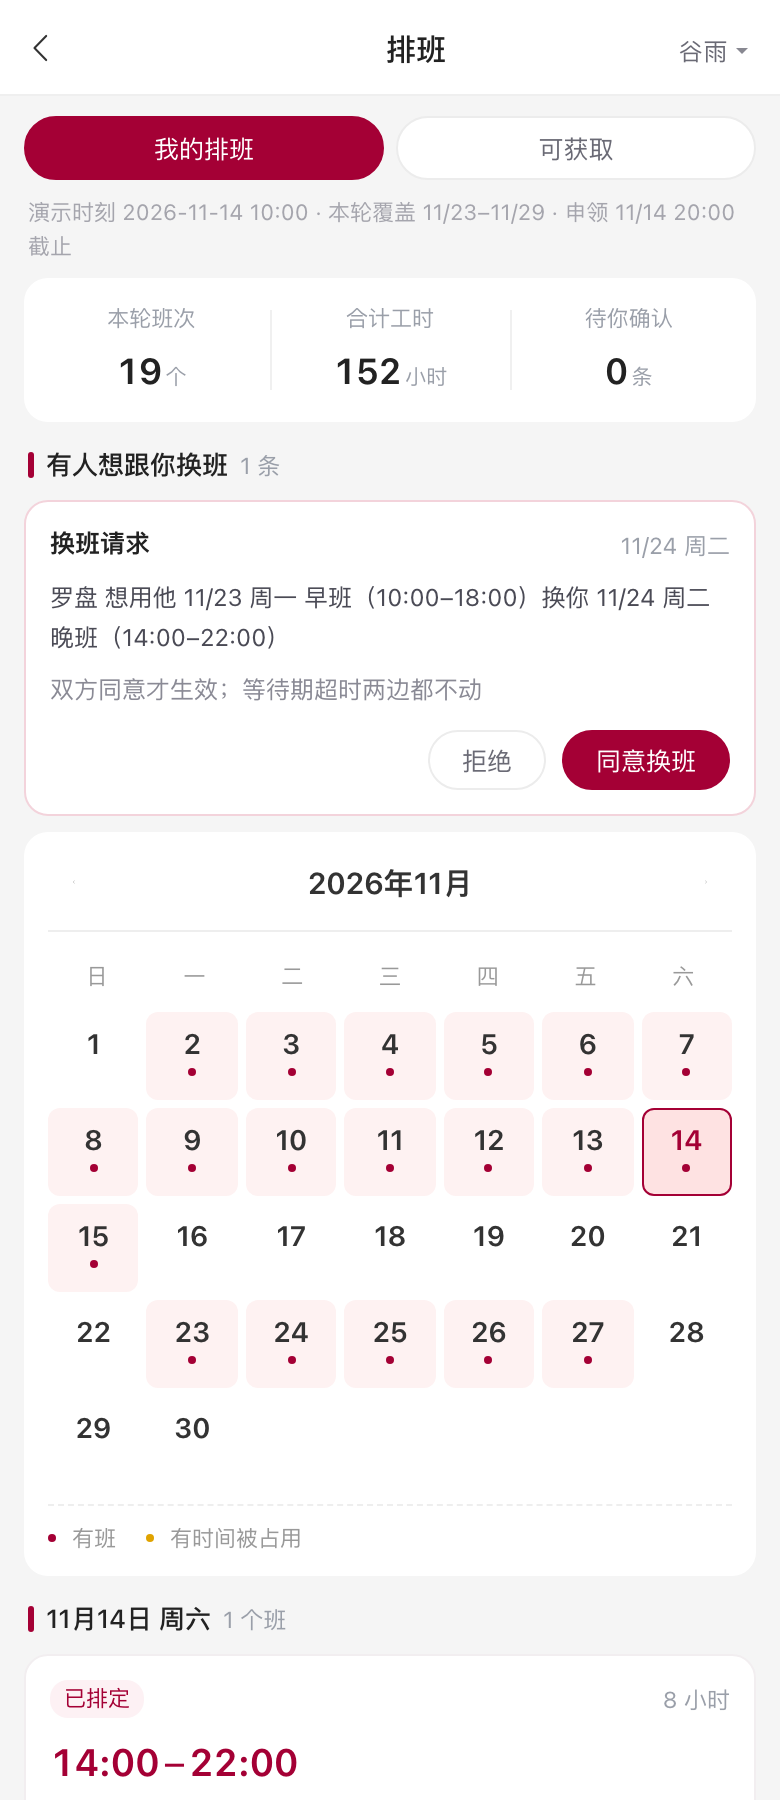
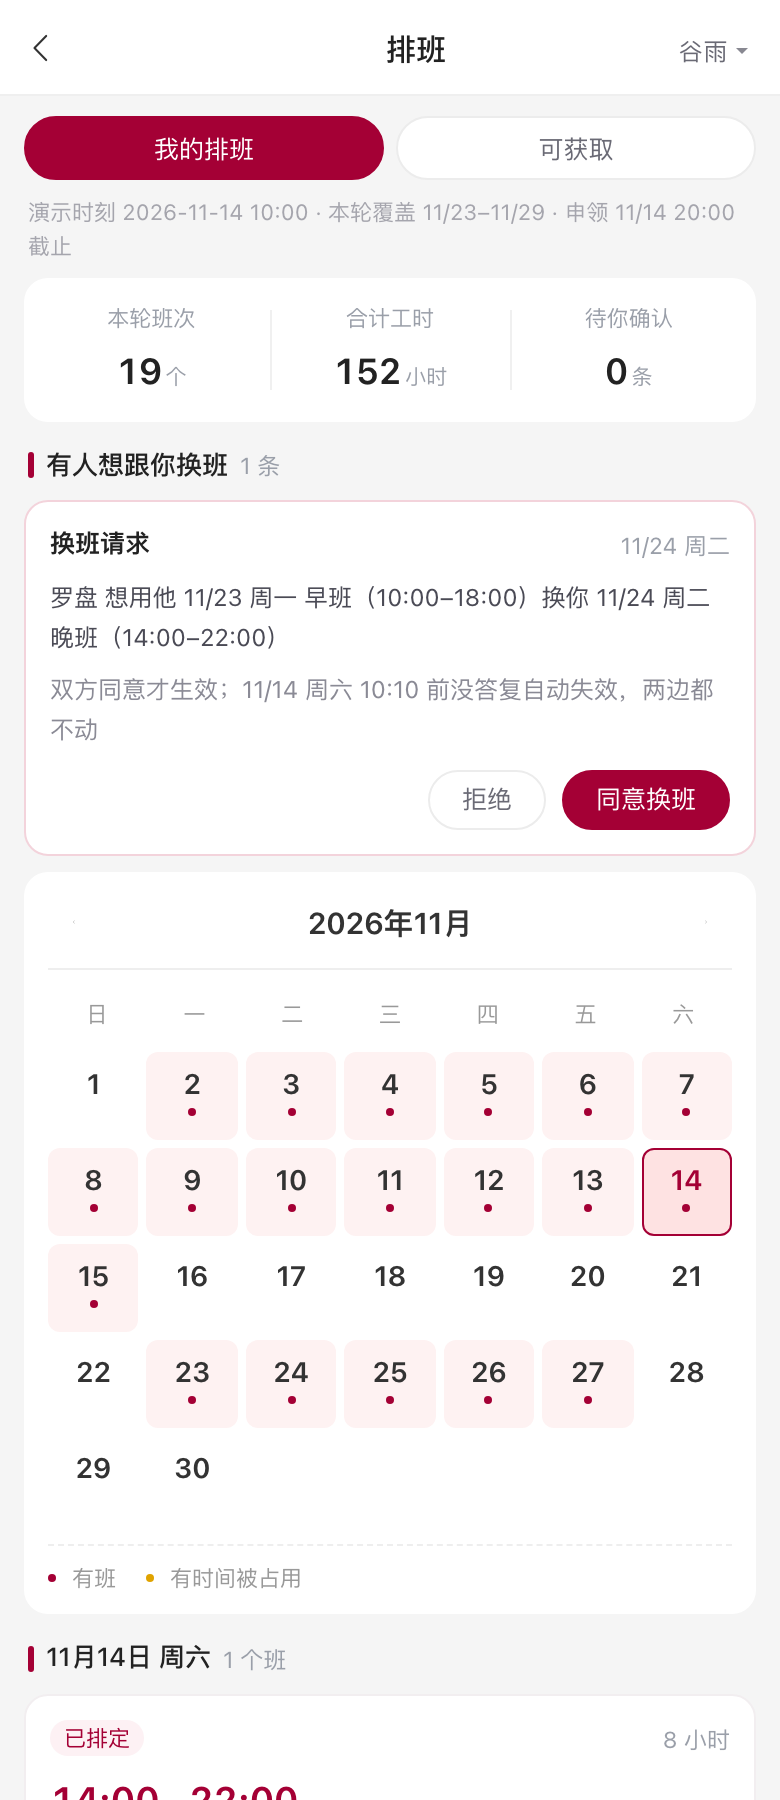
换班等待期定口径 30 分钟：文档先行 + 原型表达一致
- 口径（用户拍板）：等待期 30 分钟，从发起算起；对方没拒绝也没同意，到点自动失效、两边都不动；等待期是换班固定规则，不随空间/时段配
- 文档三处：6.4.2 换班行、6.5.3 换班请求行 + mSwapRequest 图注、6.6 通知清单
- 原型：换班请求卡显示截止时刻（swapDeadline = 发起 + 30 分钟）；发起提示与通知文案同步「30 分钟内没答复自动失效」；换班弹层说明同步
- 种子 SR-01 发起时刻 11-13 21:10 → 11-14 09:40（演示时刻前 20 分钟，等待期进行中，画面自洽）
- v5-m-swap-request 重截；测试 330/330

diff --git a/src/views/ScheduleV5Mobile.vue b/src/views/ScheduleV5Mobile.vue
@@ -54,7 +54,7 @@
               <span class="nc-date">{{ dayShort(swapText(req).date) }}</span>
             </div>
             <p>{{ swapText(req).text }}</p>
-            <p class="nc-detail">双方同意才生效；等待期超时两边都不动</p>
+            <p class="nc-detail">双方同意才生效；{{ swapDeadline(req) }} 前没答复自动失效，两边都不动</p>
             <div class="nc-act">
               <button class="act-btn ghost" @click="answer(req, false)">拒绝</button>
               <button class="act-btn primary" @click="answer(req, true)">同意换班</button>
@@ -272,7 +272,7 @@
         <div class="sheet-title">找人换班</div>
         <div class="sheet-body">
           <div class="sheet-shift">你给出：{{ dayLabel(sheet.row.date) }} {{ slotOf(sheet.row.slotId).name }} {{ slotOf(sheet.row.slotId).start }}–{{ slotOf(sheet.row.slotId).end }}</div>
-          <p class="sheet-note">换班是双向的：你给出这一条，对方给出一条。对方同意才真正对调，拒绝或超时两边都不动。</p>
+          <p class="sheet-note">换班是双向的：你给出这一条，对方给出一条。对方同意才真正对调；等待期 30 分钟，没答复到点自动失效。</p>
           <div v-if="!swapCands.length" class="empty-box small">
             <p class="empty-main">没有能换的班</p>
             <p class="empty-sub">时间会撞的、对方那天没班的都不列出来</p>
@@ -616,6 +616,14 @@ function swapText(req) {
     date: mine.date,
     text: `${personById(v5, req.from)?.name || '对方'} 想用他 ${dayShort(theirs.date)} ${ts.name}（${ts.start}–${ts.end}）换你 ${dayShort(mine.date)} ${ms.name}（${ms.start}–${ms.end}）`
   }
+}
+
+/* 等待期 30 分钟：卡上写明截止时刻，对方知道要多久内答复 */
+function swapDeadline(req) {
+  const [d, t] = (req.at || '').split(' ')
+  const [h, m] = (t || '00:00').split(':').map(Number)
+  const end = h * 60 + m + 30
+  return `${dayShort(d)} ${String(Math.floor(end / 60) % 24).padStart(2, '0')}:${String(end % 60).padStart(2, '0')}`
 }
 function goBack() { router.push('/mobile-menu') }
 

diff --git a/src/views/hr-schedule/sections/HS65Mobile.vue b/src/views/hr-schedule/sections/HS65Mobile.vue
@@ -74,7 +74,7 @@
         </thead>
         <tbody>
           <tr><td><strong>通知</strong></td><td>排班类通知是通用通知页里的示例，不在排班页自带通知段；通知只负责告诉你，处理动作都在业务页；<strong>全部通知清单见 <router-link to="/docs/hr-schedule/6-6">6.6 通知</router-link></strong></td></tr>
-          <tr><td><strong>换班请求</strong></td><td>落在「我的排班」顶部：有人想跟你换班 + 拒绝 / 同意换班——换班是关于某一天的，处理也在这一天</td></tr>
+          <tr><td><strong>换班请求</strong></td><td>落在「我的排班」顶部：有人想跟你换班 + 拒绝 / 同意换班——换班是关于某一天的，处理也在这一天；<strong>等待期 30 分钟</strong>，没答复到点自动失效</td></tr>
           <tr><td><strong>补位确认</strong></td><td>落在当天班次卡上：待你确认 + 收到，我来；确认后的变化由事实与通知走（见 6.4 / 6.6）</td></tr>
           <tr><td><strong>明确不做</strong></td><td>不做「浏览别的岗位班次自己挑」的入口；关闸之后个人不挑班，只能看到人事的安排</td></tr>
         </tbody>
@@ -131,7 +131,7 @@
 
       <h4 class="h4sub">被发起换班的人——换班请求落在「我的排班」顶部</h4>
       <DocScreens mode="phone" :images="[
-        { src: mSwapRequest, label: '换班请求：谁、拿哪天的哪个班换你哪天的哪个班；双方同意才生效，拒绝或超时两边都不动' }
+        { src: mSwapRequest, label: '换班请求：谁、拿哪天的哪个班换你哪天的哪个班；等待期 30 分钟，没答复到点自动失效' }
       ]" />
 
       <h4 class="h4sub">办公区·全职产品经理——按月直派，人只收通知</h4>

diff --git a/src/views/hr-schedule/sections/HS64Facts.vue b/src/views/hr-schedule/sections/HS64Facts.vue
@@ -56,7 +56,7 @@
         <tbody>
           <tr><td><strong>请假</strong></td><td>人的一段班次时间来不了；可整班也可只请几小时</td><td>按这条班次的缺口规则重算（见 6.4.3）：只请一段也走缺口规则，顶班人只顶被拿走的那一段</td></tr>
           <tr><td><strong>顶班</strong></td><td>人事安排另一个人来顶这个班</td><td>经营性安排，通知即可、不需对方同意；顶上后「待人事处理」自动销</td></tr>
-          <tr><td><strong>换班</strong></td><td>两个人各拿自己的一天班次对调，同岗位对等</td><td>两条班次同时生效地对调，各自留变动历史；请求由对方在移动端答复。<strong>谁能参与换班：只有这条班次允许获取的人群</strong>（清单档位里、按优先级开放的那批人）——档位外的人不出现在换班候选里，发起方选不到，对方也收不到请求</td></tr>
+          <tr><td><strong>换班</strong></td><td>两个人各拿自己的一天班次对调，同岗位对等</td><td>两条班次同时生效地对调，各自留变动历史；请求由对方在移动端答复。<strong>等待期 30 分钟</strong>：从发起算起，对方没拒绝也没同意，到点自动失效、两边都不动。谁能参与换班：只有这条班次允许获取的人群（清单档位里、按优先级开放的那批人）——档位外的人不出现在换班候选里，发起方选不到，对方也收不到请求</td></tr>
           <tr><td><strong>离职</strong></td><td>人离店，从某天起不再来</td><td>只交付事实与实际离职日期；后续班次标记被覆盖，<strong>不找人顶</strong>（补人由招聘侧处理）</td></tr>
         </tbody>
       </table>

diff --git a/src/mock/scheduleV5Store.js b/src/mock/scheduleV5Store.js
@@ -62,9 +62,9 @@ export function proposeSwap(placementId, partnerPlacementId) {
   state.notices.unshift({
     id: seq(), to: theirs.personId, kind: 'swap', acked: false, date: mine.date,
     text: `换班请求：用你的 ${theirs.date} ${slotById(state, theirs.slotId).name} 换 ${mine.date} ${s.name}`,
-    detail: '双方同意才生效；等待期超时两边都不动'
+    detail: '双方同意才生效；等待期 30 分钟，没答复到点自动失效，两边都不动'
   })
-  return { ok: true, text: '换班请求已发出，等对方同意' }
+  return { ok: true, text: '换班请求已发出，对方 30 分钟内没答复自动失效' }
 }
 
 export function answerSwap(reqId, accept) {

diff --git a/src/views/hr-schedule/sections/HS66Notice.vue b/src/views/hr-schedule/sections/HS66Notice.vue
@@ -43,7 +43,7 @@
           <tr>
             <td><strong>换班请求</strong></td>
             <td>有人发起「找人对换」并选定了对家</td>
-            <td>对家在「我的排班」顶部看到「有人想跟你换班」+ 拒绝 / 同意换班；同意 = 两条事实同时生效，拒绝不变动</td>
+            <td>对家在「我的排班」顶部看到「有人想跟你换班」+ 拒绝 / 同意换班；等待期 30 分钟，没答复到点自动失效；同意 = 两条事实同时生效，拒绝不变动</td>
           </tr>
         </tbody>
       </table>

diff --git a/src/mock/scheduleV5.js b/src/mock/scheduleV5.js
@@ -737,7 +737,7 @@ export const NOTICES5 = [
 /* 演示用：一条还没答复的换班请求（罗盘拿 11-23 早班换谷雨 11-24 晚班） */
 export const SWAP_REQUESTS5 = [
   { id: 'SR-01', from: 'E-205', to: 'E-206', placementId: 'P-XL0-0', partnerPlacementId: 'P-XL1-1',
-    at: '2026-11-13 21:10', status: 'pending' }
+    at: '2026-11-14 09:40', status: 'pending' }
 ]
 
 /* ===== 纯逻辑 ===== */
